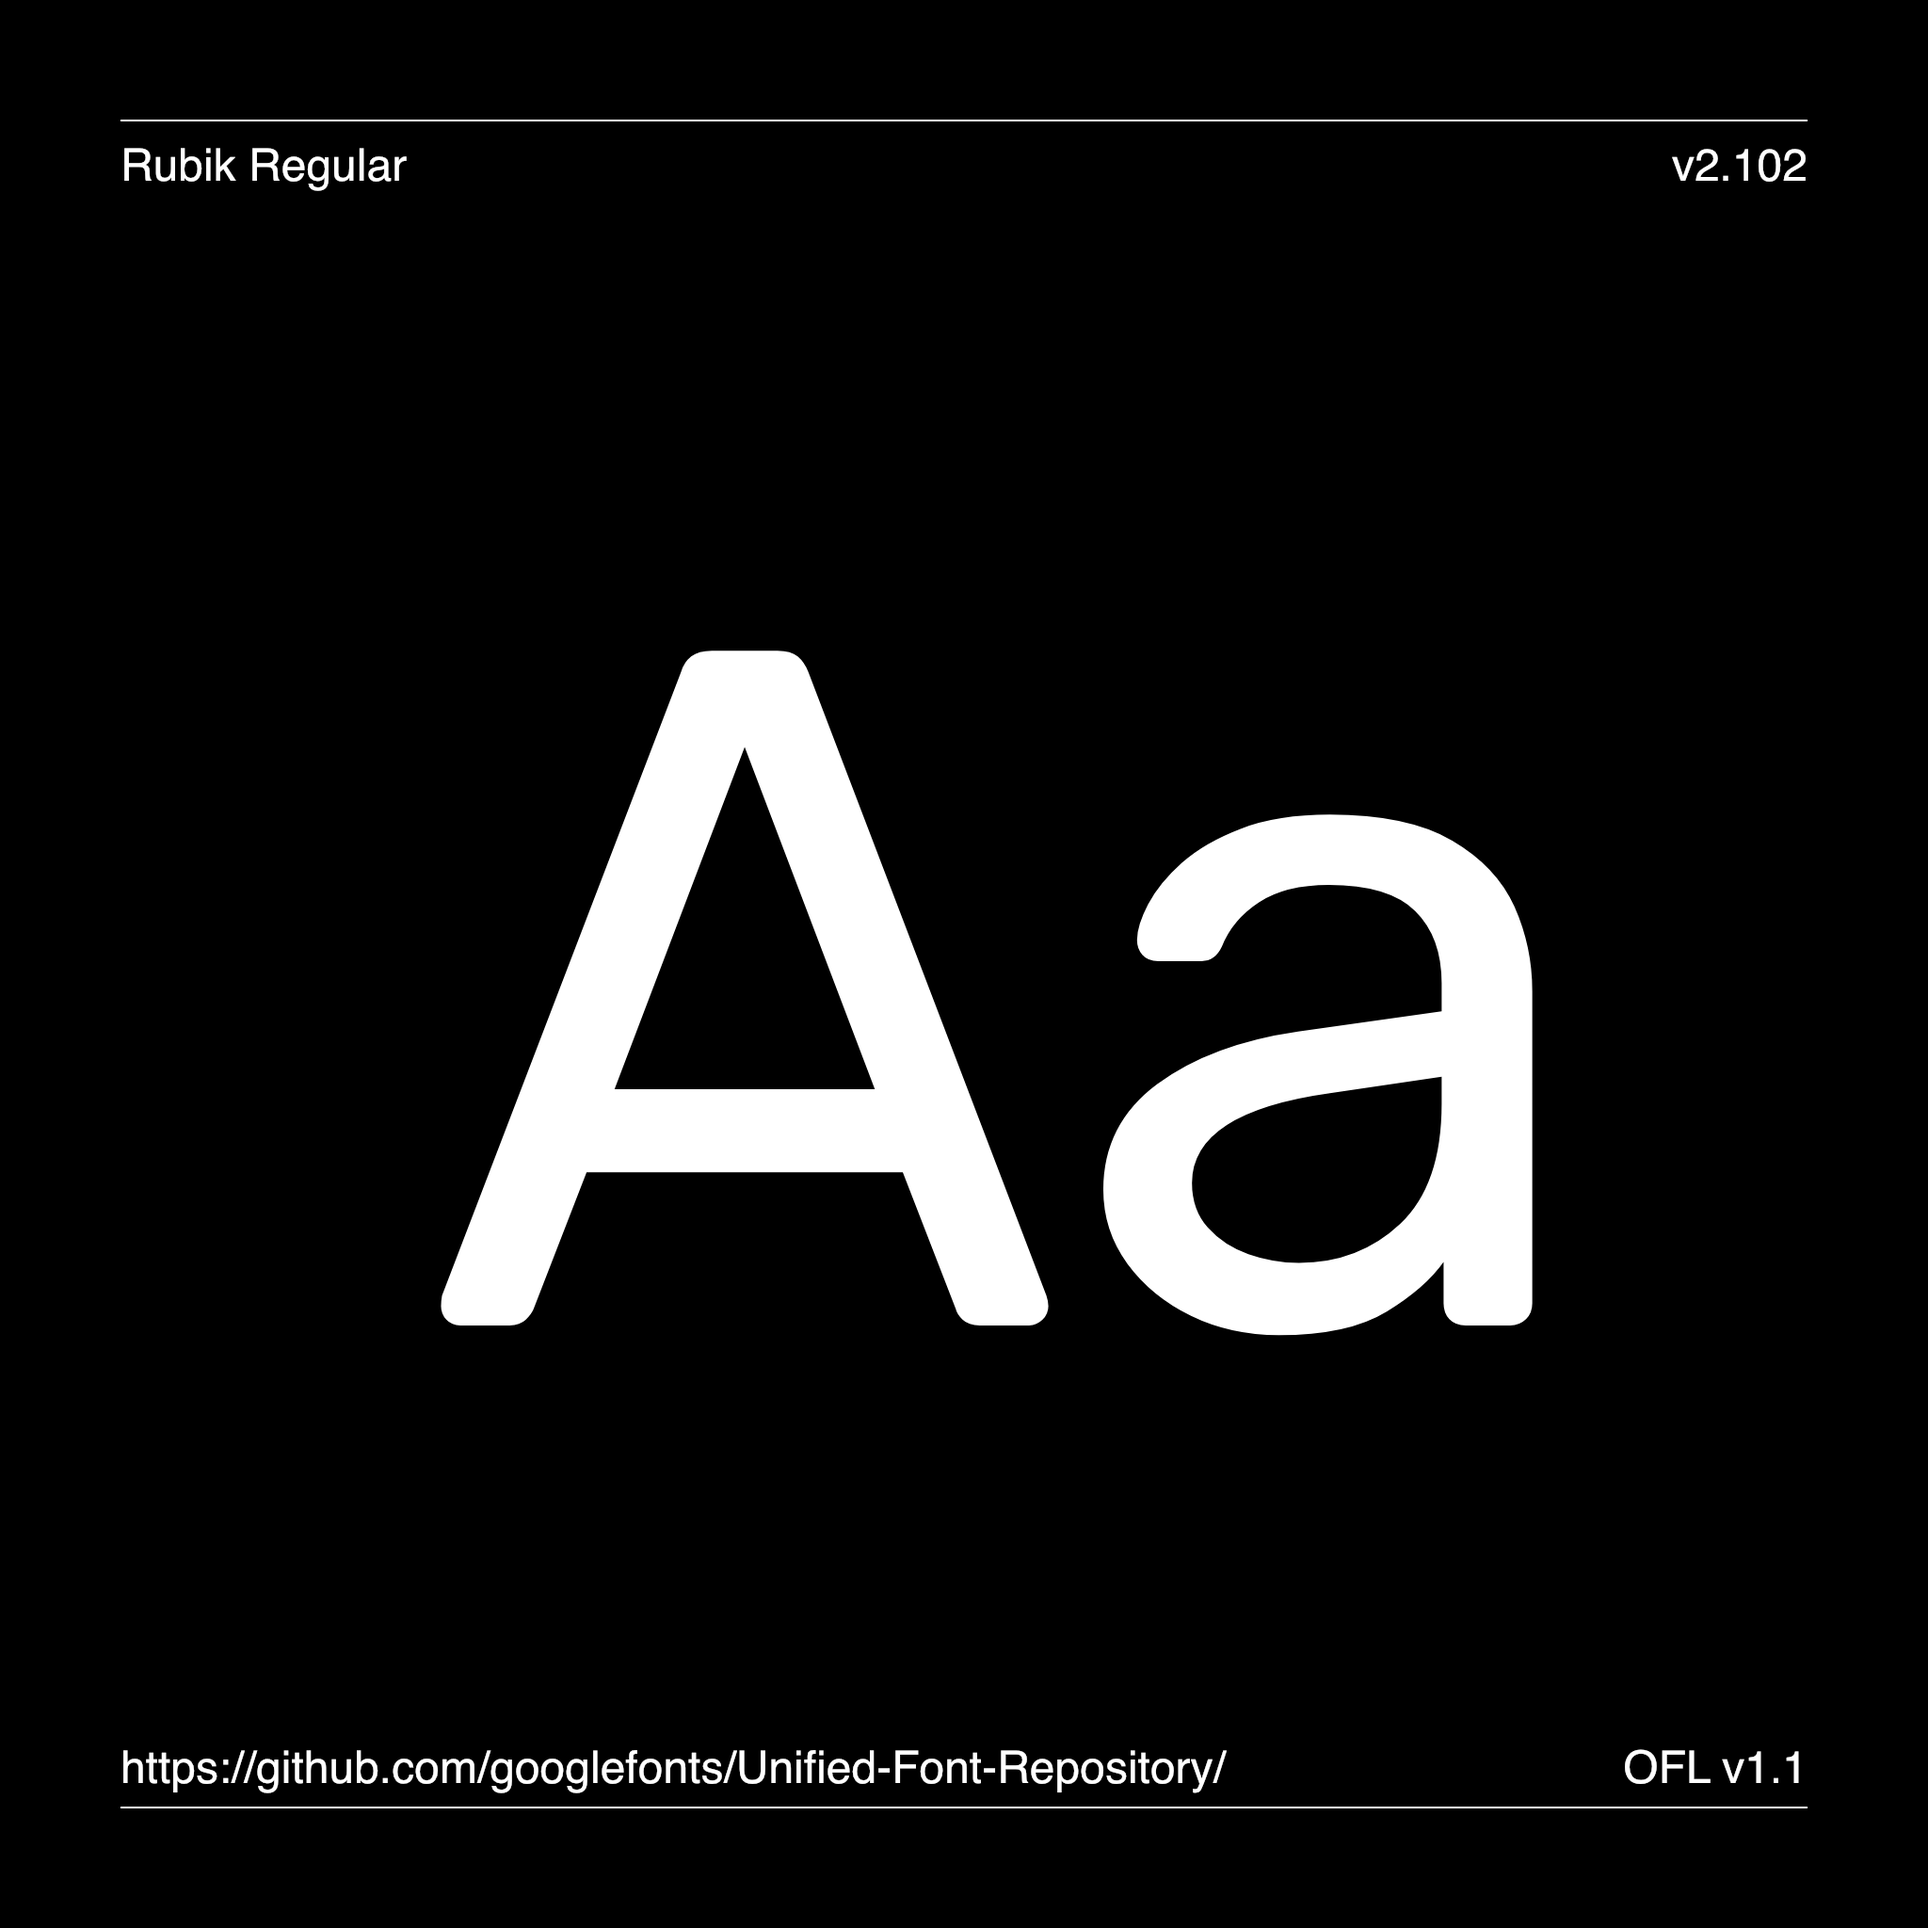
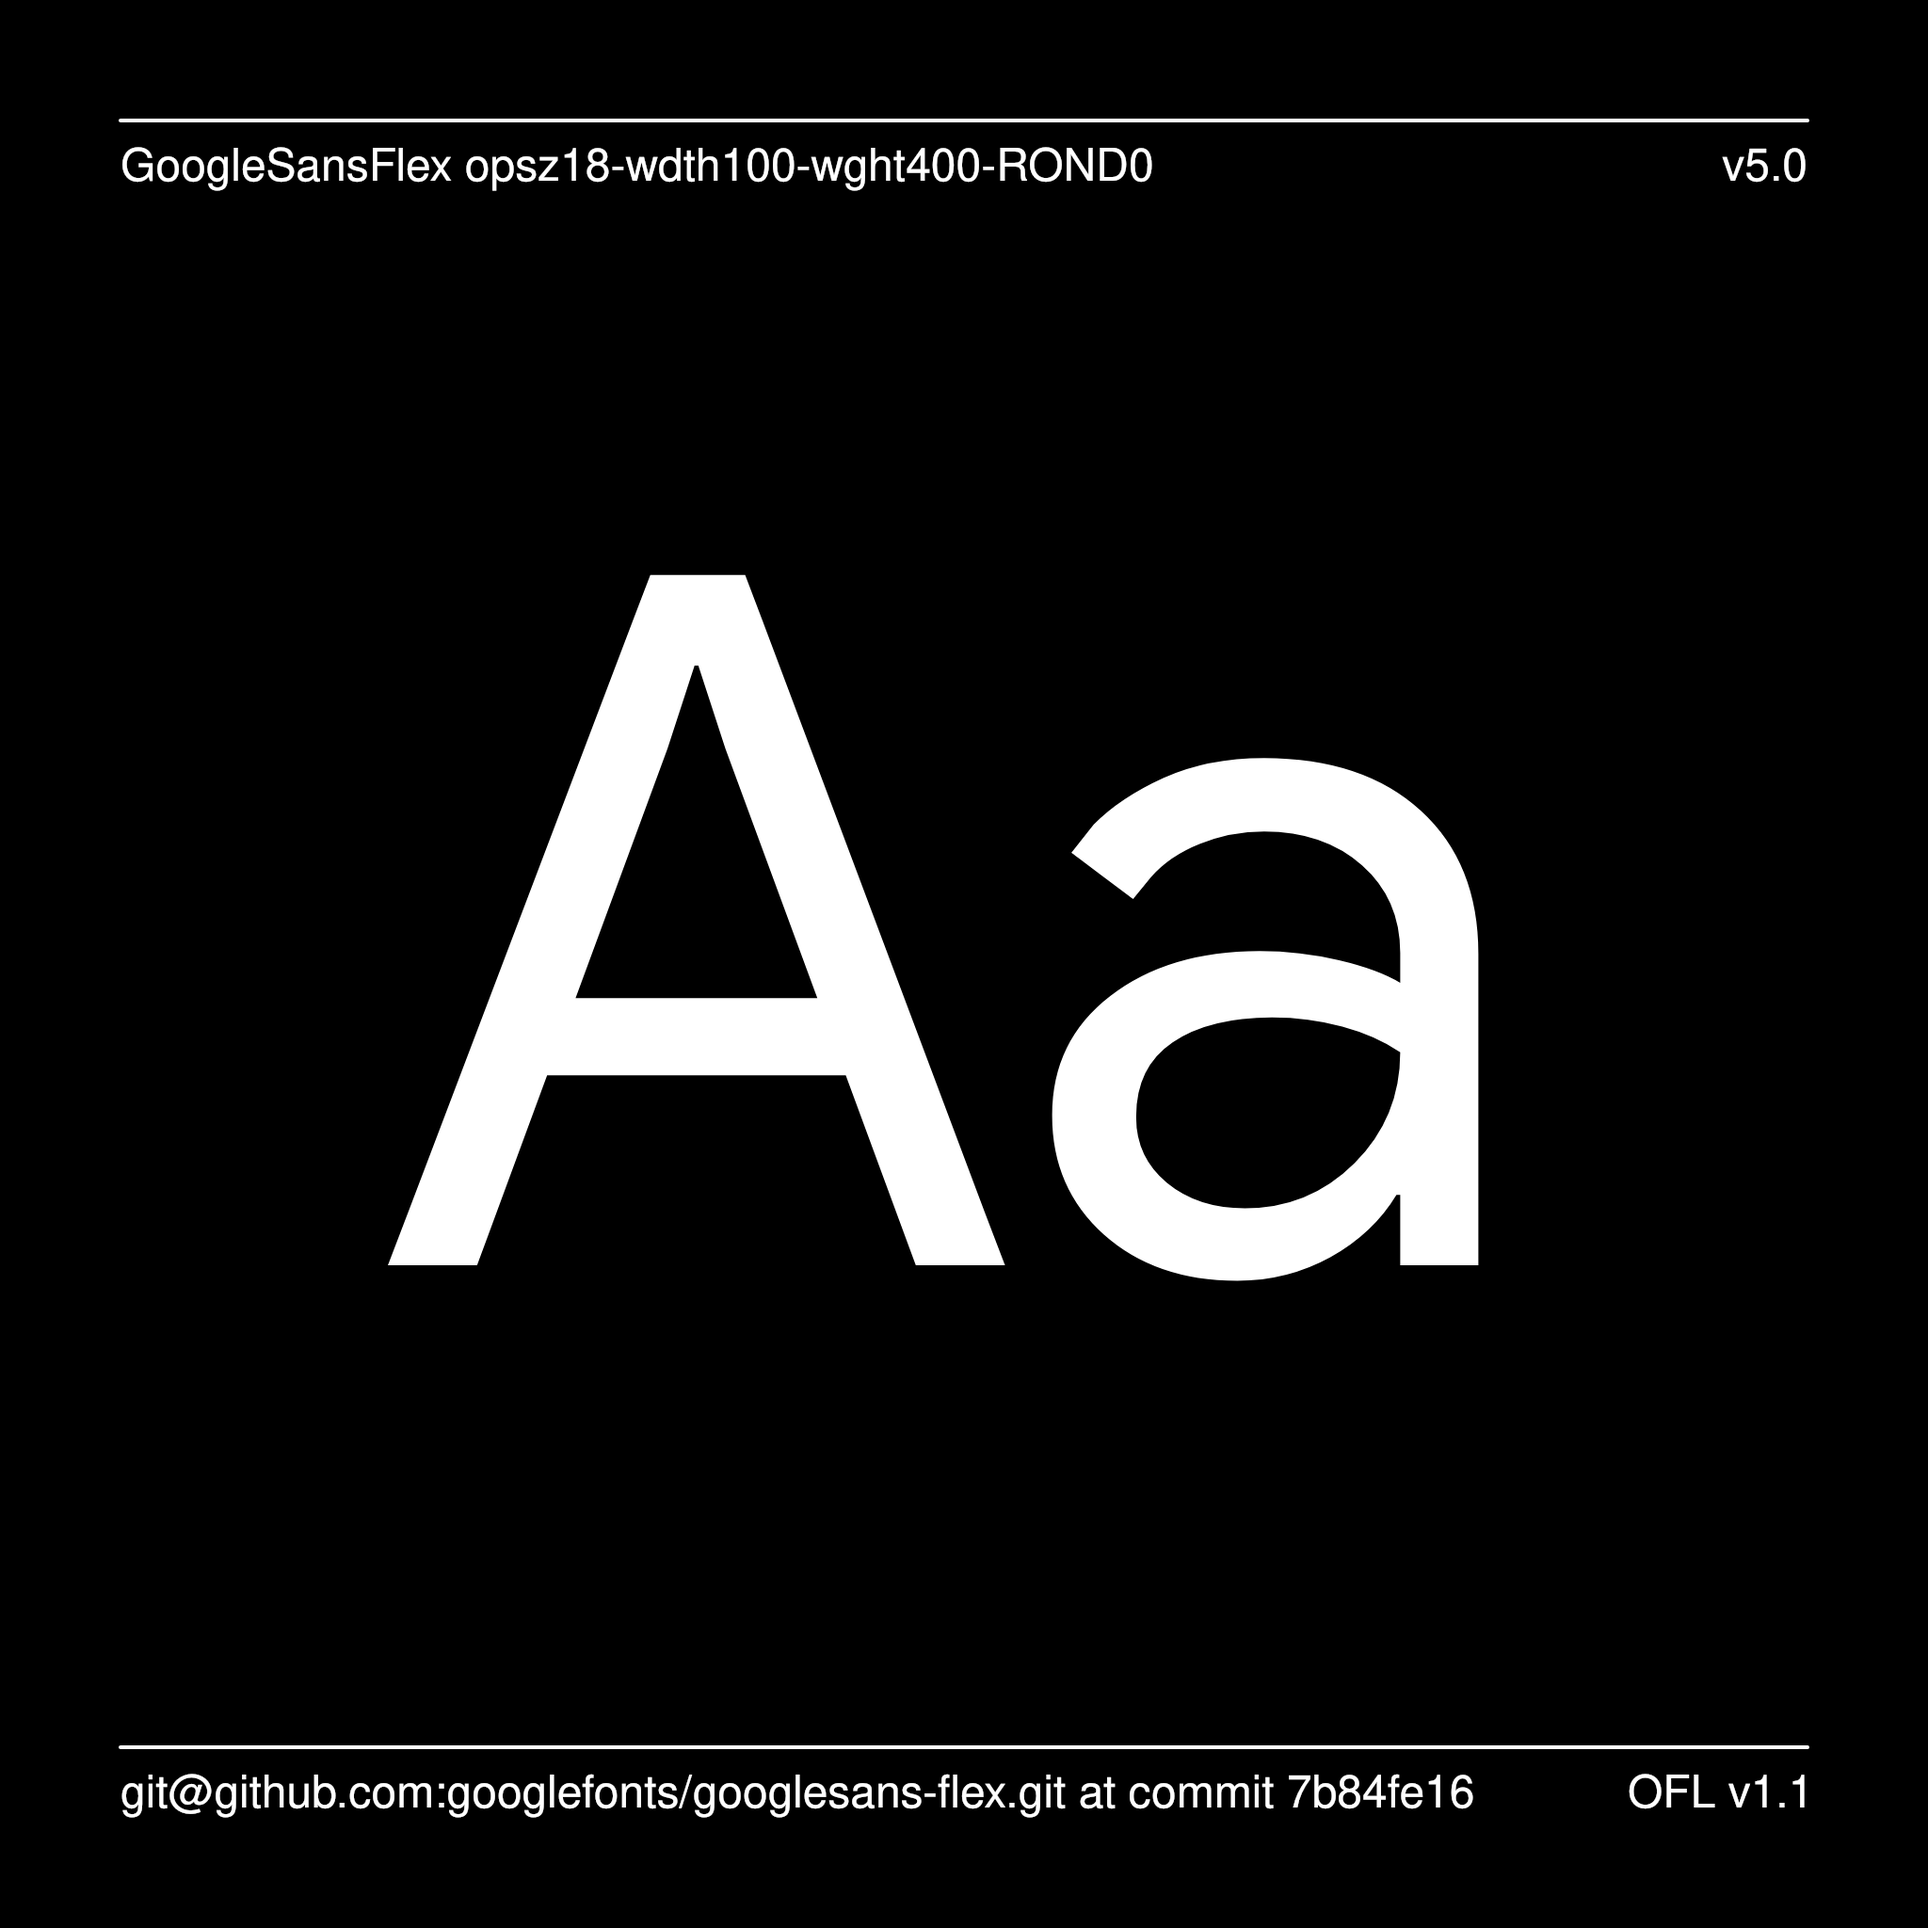
Update image script and image
Configure & run script

diff --git a/documentation/image1.py b/documentation/image1.py
@@ -16,7 +16,7 @@ import argparse
 
 # Constants, these are the main "settings" for the image
 WIDTH, HEIGHT, MARGIN, FRAMES = 2048, 2048, 128, 1
-FONT_PATH = "fonts/ttf/Rubik-Regular.ttf"
+FONT_PATH = "fonts/variable/GSFWDTH[wdth,wght].ttf"
 FONT_LICENSE = "OFL v1.1"
 AUXILIARY_FONT = "Helvetica"
 AUXILIARY_FONT_SIZE = 48
